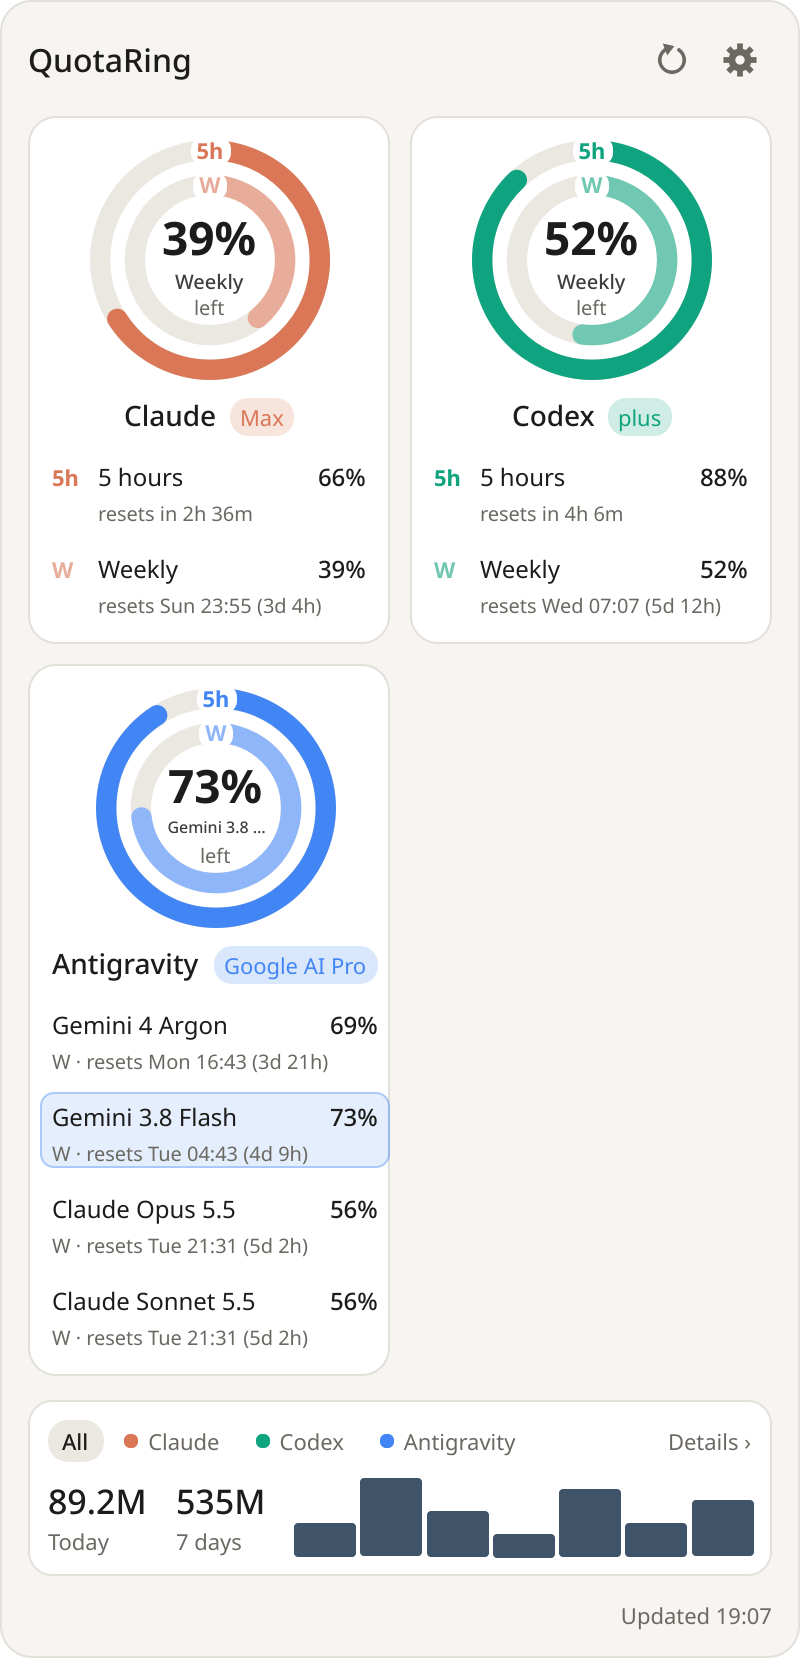
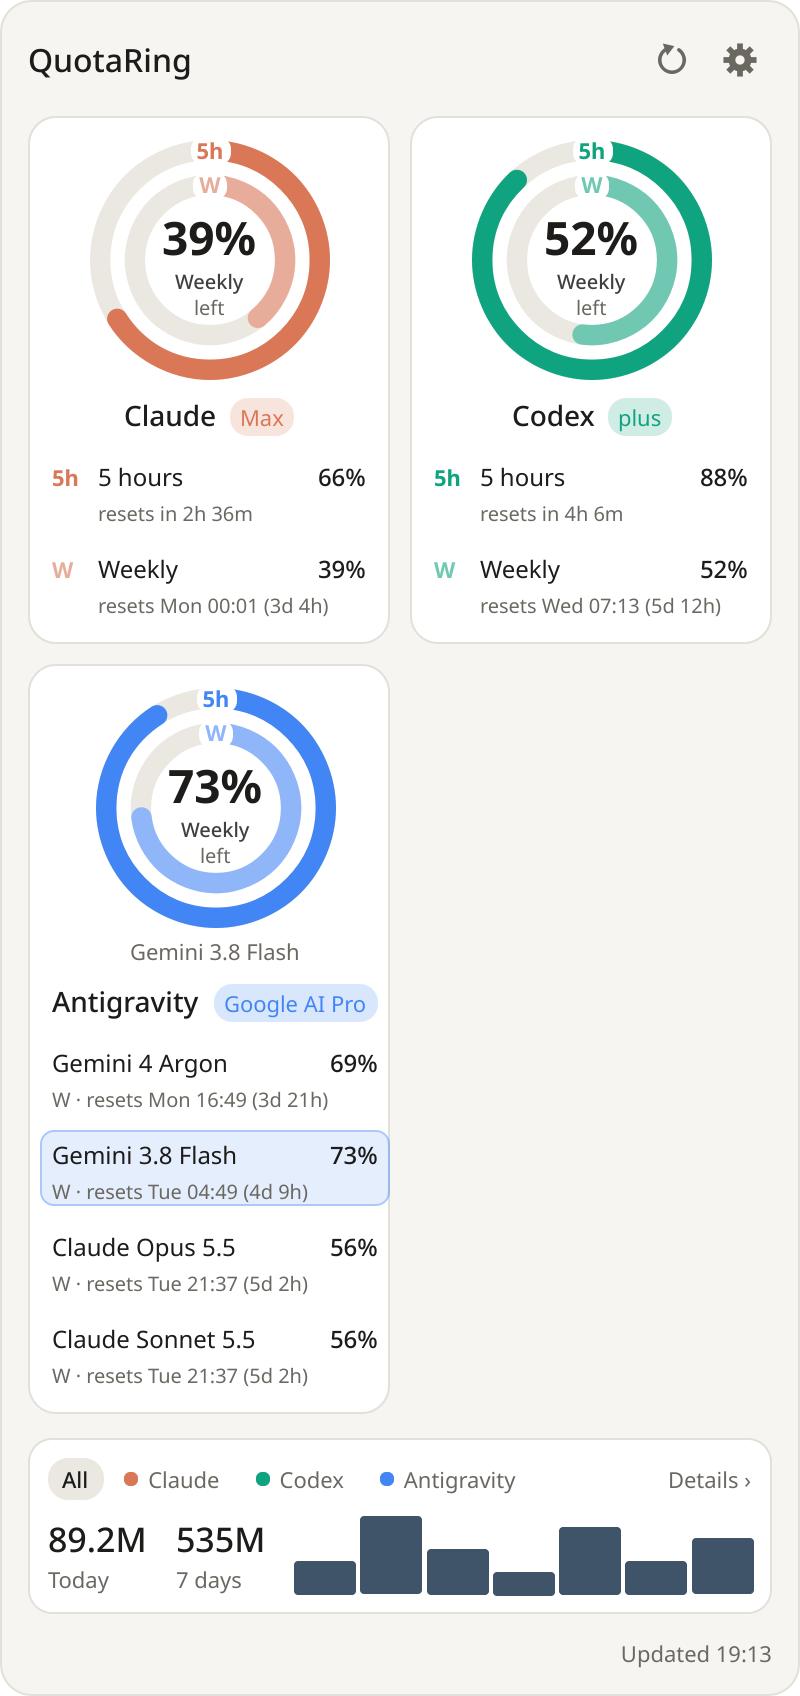
Antigravity rings: hover picks 5-hour or weekly; model name under the rings
On a model card, hovering a ring now shows that limit in the middle and fades
the other ring, as on the Claude and Codex cards. The middle names the limit
("5 hours", "Weekly") instead of the model, which is shown small under the
rings. README screenshots re-rendered.

diff --git a/quotaring/ui/qml/PopupContent.qml b/quotaring/ui/qml/PopupContent.qml
@@ -283,6 +283,9 @@ Item {
         // A model row (Antigravity) carries its 5-hour and weekly limits: both go on the rings.
         readonly property var ringPair: ringWindow ? (ringWindow.pair || [ringWindow]) : []
         readonly property var ringInner: ringPair.length > 1 ? ringPair[1] : null
+        // The ring under the mouse on a model card: its limit takes the middle, like on the others.
+        readonly property var hoverPair: multi && ring.hoverRing >= 0 && ring.hoverRing < ringPair.length
+            ? ringPair[ring.hoverRing] : null
 
         function shown(x) { return popup.remaining ? x.remaining : x.used; }
         function toneOf(x) {
@@ -320,7 +323,7 @@ Item {
                 outerTag: card.multi ? card.ringPair[0].tag : card.first ? card.first.tag : ""
                 innerTag: card.multi ? (card.ringInner ? card.ringInner.tag : "") : card.second ? card.second.tag : ""
                 tagBackground: popup.c.card
-                highlight: card.multi ? -1 : card.lit
+                highlight: card.multi ? (card.hoverPair ? ring.hoverRing : -1) : card.lit
                 outerColor: card.multi ? card.toneOf(card.ringPair[0])
                     : card.first && card.first === card.tight ? card.tone : card.modelData.color
                 innerColor: card.multi && card.ringInner && T.levelOf(card.ringInner.remaining, card.ringInner.limited) !== "ok"
@@ -332,9 +335,10 @@ Item {
                 textColor: !showing || T.levelOf(showing.remaining, showing.limited) === "ok" ? popup.c.text : card.toneOf(showing)
                 subColor: popup.c.muted
                 // The middle follows the highlighted ring, else shows the tightest limit.
-                readonly property var showing: card.multi ? card.ringWindow : (card.litWindow || card.tight)
+                readonly property var showing: card.multi ? (card.hoverPair || card.ringWindow) : (card.litWindow || card.tight)
                 centerText: !showing ? "—" : showing.limited ? "0" : T.pct(popup.v, card.shown(showing))
-                label: showing ? showing.label : ""
+                // Which limit the number is ("5 hours", "Weekly"); a model card names the model below.
+                label: !showing ? "" : card.hoverPair ? card.hoverPair.short : card.multi ? showing.short : showing.label
                 subText: !showing ? "" : showing.limited ? popup.v.text.limitReached
                     : popup.remaining ? popup.v.text.left : popup.v.text.used
                 opacity: showing && showing.dim ? 0.5 : 1
@@ -343,6 +347,19 @@ Item {
                     : ring.hoverRing === 1 && card.ringInner ? card.ringInner : card.ringPair[0]
                 ToolTip.visible: !!tipWindow && ring.hoverRing >= 0
                 ToolTip.text: tipWindow ? tipWindow.label + ": " + card.valueText(tipWindow) + " · " + tipWindow.reset : ""
+            }
+
+            // The model on the rings, small, under them.
+            Text {
+                visible: card.multi && !!card.ringWindow && !!card.ringWindow.pair
+                Layout.alignment: Qt.AlignHCenter
+                Layout.maximumWidth: col.width
+                Layout.topMargin: -4
+                text: visible ? card.ringWindow.label : ""
+                textFormat: Text.PlainText
+                elide: Text.ElideRight
+                color: popup.c.muted
+                font.pointSize: 8.5
             }
 
             RowLayout {

diff --git a/quotaring/viewmodel.py b/quotaring/viewmodel.py
@@ -101,6 +101,7 @@ def limits_view(snaps, now: float) -> list[dict]:
                 base = w.label.split(" · ")[0]
                 item["windows"].append({
                     "label": label, "tag": tr(RING_TAG[base]) if base in RING_TAG else _initials(label),
+                    "short": tr(SHORT_WINDOW.get(base, base)),  # "5 hours", "Weekly": what a ring is
                     "used": round(used), "remaining": round(max(0.0, 100 - used)),
                     "limited": limited, "dim": not limited and (passed or q.state == State.STALE),
                     "reset": fmt.resets(w.resets_at, now)})

diff --git a/tests/test_viewmodel.py b/tests/test_viewmodel.py
@@ -131,5 +131,6 @@ def test_antigravity_models_one_row_each_with_ring_pair():
         ("Gemini 4 Argon", "GA", 78), ("Gemini 3.8 Flash", "GF", 90), ("Claude Opus 5.5", "CO", 88),
         ("Claude Sonnet 5.5", "CS", 88)]
     assert [w["tag"] for w in rows[1]["pair"]] == ["5h", "W"] and len(rows[0]["pair"]) == 1
+    assert [w["short"] for w in rows[1]["pair"]] == ["5 hours", "Weekly"]  # the ring's name on hover
     assert rows[2]["reset"].startswith("W · ")
     json.dumps(item)

diff --git a/CHANGELOG.md b/CHANGELOG.md
@@ -28,8 +28,9 @@ The format follows [Keep a Changelog](https://keepachangelog.com/en/1.1.0/), and
   weekly). Each model keeps its own row; the selected (or tightest) model shows its group's
   5-hour limit on the outer ring and the weekly one on the inner ring. The IDE's account-status
   cache stays as the fallback. Per-model rows no longer carry initials.
-- Long model names in the middle of a ring shrink and elide instead of running over it; GPT
-  model ids read as "GPT-5.5" like the other models.
+- Antigravity's rings: hovering one shows its limit in the middle and fades the other, as on
+  the other cards; the middle names the limit ("5 hours", "Weekly") and the model sits under
+  the rings. GPT model ids read as "GPT-5.5" like the other models.
 - Model names: Antigravity's variant ids ("gemini-3.8-flash-n", "claude-opus-5-5-medium") are
   shown as one model ("Gemini 3.8 Flash", "Opus 5.5").
 
